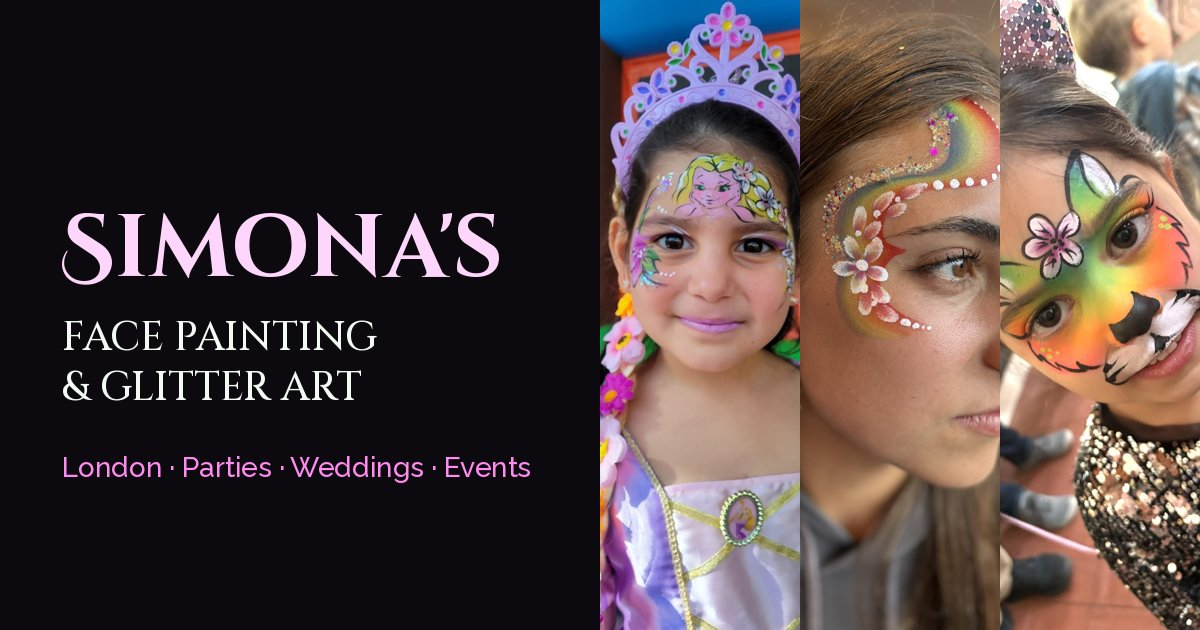
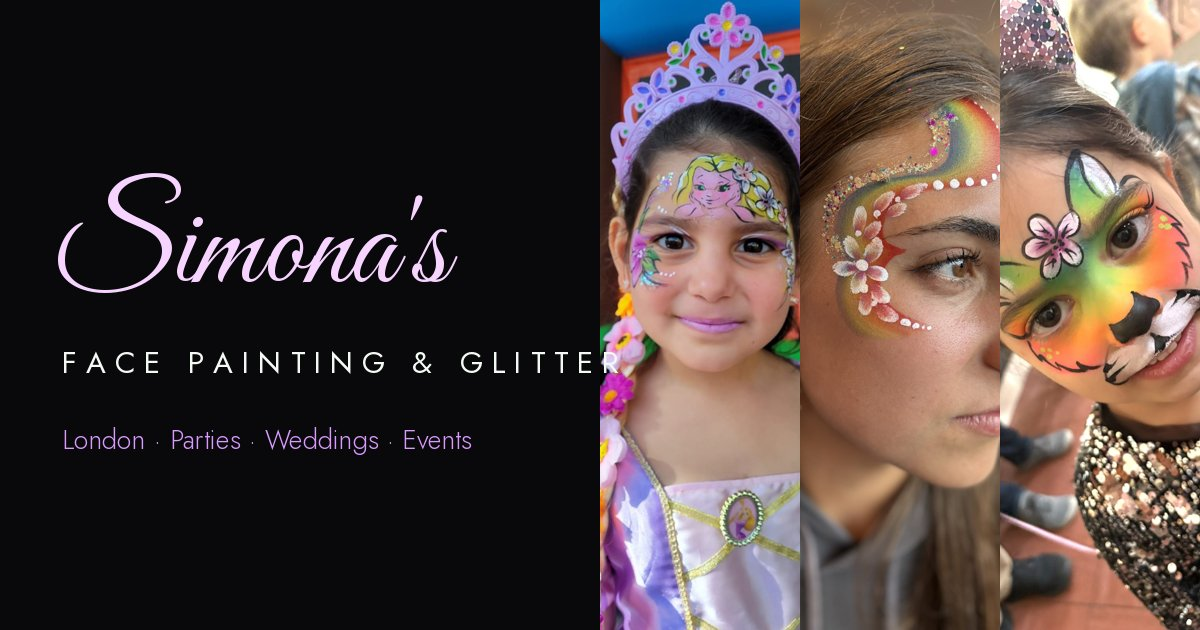
Elegant type and purple-pink gradient palette
- Great Vibes script for showpiece titles (brand, hero, CTA), Playfair Display
  for headings, light Jost for body text (replaces heavy Cinzel/Raleway)
- Purple-to-pink gradient buttons and accents instead of green; black background kept
- Accessibility 100 on audited pages

Claude-Session: https://claude.ai/code/session_016rwLob6es9EqdRDStT6Esh

diff --git a/src/styles/global.css b/src/styles/global.css
@@ -1,12 +1,13 @@
-@import '@fontsource/cinzel-decorative/latin-700.css';
-@import '@fontsource/cinzel/latin-500.css';
-@import '@fontsource/cinzel/latin-600.css';
-@import '@fontsource/raleway/latin-400.css';
-@import '@fontsource/raleway/latin-500.css';
-@import '@fontsource/raleway/latin-600.css';
-@import '@fontsource/raleway/latin-400-italic.css';
+/* Type: script accent (Great Vibes) for showpiece titles, elegant serif (Playfair Display)
+   for headings, light geometric sans (Jost) for reading text. */
+@import '@fontsource/great-vibes/latin-400.css';
+@import '@fontsource/playfair-display/latin-400.css';
+@import '@fontsource/playfair-display/latin-400-italic.css';
+@import '@fontsource/jost/latin-300.css';
+@import '@fontsource/jost/latin-400.css';
+@import '@fontsource/jost/latin-500.css';
 
-/* ---------- Tokens (Simona's brand: black, magenta, mint-white) ---------- */
+/* ---------- Tokens: black ground, purple → pink gradients, white ---------- */
 :root {
   color-scheme: dark;
   --ink: #0c0a0e;
@@ -24,15 +25,21 @@
   --pink: #e934e8;
   --pink-deep: #b01faf;  /* pink behind white text (AA contrast) */
   --pink-soft: rgba(233, 52, 232, 0.14);
-  --pink-text: #ff8cf4;
+  --pink-text: #e9a6ff;
   --blue: #4b6e91;
   --gold: #d9b36c;
-  --wa: #25d366;
-  --wa-deep: #0b7038;   /* WhatsApp green, darkened for white-text contrast */
+  --violet: #7a3cf0;
+  --violet-soft: #c9b2ff;
+  /* Call-to-action gradient: every stop is dark enough for white text (AA) */
+  --grad-cta: linear-gradient(120deg, #6a2fe0 0%, #9b2fd9 48%, #c3279f 100%);
+  --grad-cta-hover: linear-gradient(120deg, #5a22cc 0%, #8722c7 48%, #ab1e8b 100%);
+  --grad-text: linear-gradient(110deg, #ffffff 0%, #f6d4ff 35%, #d99bff 65%, #ff8cf4 100%);
+  --grad-line: linear-gradient(90deg, #7a3cf0, #e934e8);
+  --wa-deep: #7a2ed8;   /* legacy name: primary button colour (now violet) */
 
-  --font-display: 'Cinzel Decorative', 'Cinzel', Georgia, serif;
-  --font-head: 'Cinzel', Georgia, serif;
-  --font-body: 'Raleway', system-ui, -apple-system, 'Segoe UI', sans-serif;
+  --font-display: 'Great Vibes', 'Playfair Display', cursive;
+  --font-head: 'Playfair Display', Georgia, 'Times New Roman', serif;
+  --font-body: 'Jost', system-ui, -apple-system, 'Segoe UI', sans-serif;
 
   --radius: 18px;
   --radius-lg: 28px;
@@ -48,6 +55,7 @@ html { -webkit-text-size-adjust: 100%; scroll-behavior: smooth; }
 @media (prefers-reduced-motion: reduce) { html { scroll-behavior: auto; } *, *::before, *::after { animation: none !important; transition: none !important; } }
 body {
   margin: 0;
+  font-weight: 300;
   background: var(--cream);
   color: var(--text);
   font-family: var(--font-body);
@@ -60,12 +68,14 @@ img, video { max-width: 100%; height: auto; display: block; }
 a { color: inherit; }
 :focus-visible { outline: 3px solid var(--pink); outline-offset: 3px; border-radius: 6px; }
 
-h1, h2, h3 { font-family: var(--font-head); font-weight: 600; line-height: 1.15; letter-spacing: 0.01em; margin: 0 0 0.5em; text-wrap: balance; }
+h1, h2, h3 { font-family: var(--font-head); font-weight: 400; line-height: 1.18; letter-spacing: 0; margin: 0 0 0.5em; text-wrap: balance; }
 h1 { font-size: clamp(2.1rem, 4.6vw, 4rem); }
 h2 { font-size: clamp(1.7rem, 3vw, 2.6rem); }
-h3 { font-size: clamp(1.15rem, 1.4vw, 1.35rem); font-weight: 500; }
+h3 { font-size: clamp(1.15rem, 1.4vw, 1.35rem); font-weight: 400; }
+h2 em, h1 em { font-style: italic; background: var(--grad-text); -webkit-background-clip: text; background-clip: text; color: transparent; }
 p { margin: 0 0 1em; text-wrap: pretty; }
-.display { font-family: var(--font-display); font-weight: 700; }
+.display { font-family: var(--font-display); font-weight: 400; }
+.script { font-family: var(--font-display); font-weight: 400; letter-spacing: 0; text-transform: none; }
 
 .wrap { width: min(100% - 2 * var(--gutter), var(--wrap)); margin-inline: auto; }
 .narrow { max-width: 760px; }
@@ -84,12 +94,12 @@ p { margin: 0 0 1em; text-wrap: pretty; }
 
 .eyebrow {
   display: inline-flex; align-items: center; gap: 0.6em;
-  font-family: var(--font-body); font-weight: 600; font-size: 0.78rem; letter-spacing: 0.22em; text-transform: uppercase;
+  font-family: var(--font-body); font-weight: 500; font-size: 0.78rem; letter-spacing: 0.24em; text-transform: uppercase;
   color: var(--pink-text); margin-bottom: 1rem;
 }
-.section--dark .eyebrow { color: #ff8af0; }
-.eyebrow::before { content: ''; width: 28px; height: 1px; background: currentColor; }
-.center .eyebrow::after { content: ''; width: 28px; height: 1px; background: currentColor; }
+.section--dark .eyebrow { color: var(--pink-text); }
+.eyebrow::before { content: ''; width: 28px; height: 1px; background: var(--grad-line); }
+.center .eyebrow::after { content: ''; width: 28px; height: 1px; background: var(--grad-line); }
 
 .sparkle-text {
   background: var(--sparkle); -webkit-background-clip: text; background-clip: text; color: transparent;
@@ -102,15 +112,13 @@ p { margin: 0 0 1em; text-wrap: pretty; }
   min-height: 52px; padding: 0.85em 1.6em;
   background: var(--bg); color: var(--fg);
   border: 1px solid transparent; border-radius: 999px;
-  font: 600 0.95rem/1 var(--font-body); letter-spacing: 0.04em; text-decoration: none;
+  font: 500 0.98rem/1 var(--font-body); letter-spacing: 0.04em; text-decoration: none;
   cursor: pointer; transition: transform .2s ease, box-shadow .2s ease, background .2s ease;
 }
 .btn:hover { transform: translateY(-2px); box-shadow: 0 12px 30px -12px rgba(233,52,232,.45); }
 .btn svg { width: 1.25em; height: 1.25em; flex: none; }
-.btn--wa { --bg: var(--wa-deep); --fg: #fff; }
-.btn--wa:hover { --bg: #085c2e; }
-.btn--pink { --bg: var(--pink-deep); --fg: #fff; }
-.btn--pink:hover { --bg: #961a95; }
+.btn--wa, .btn--pink { --fg: #fff; background: var(--grad-cta); box-shadow: 0 10px 30px -12px rgba(155, 47, 217, .7); }
+.btn--wa:hover, .btn--pink:hover { background: var(--grad-cta-hover); }
 .btn--ghost { --bg: transparent; --fg: currentColor; border-color: currentColor; }
 .btn--light { --bg: var(--pearl); --fg: var(--ink); }
 .btn-row { display: flex; flex-wrap: wrap; gap: 12px; }
